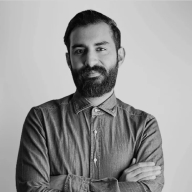
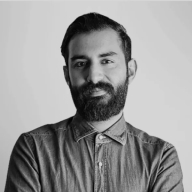
Improved testimonials

diff --git a/src/sass/components/_testimonials.sass b/src/sass/components/_testimonials.sass
@@ -63,18 +63,11 @@
     &__name
         font-family: var(--type-family-1b)
 
-    picture
-        position: relative
-        margin: var(--size-s) var(--size-s) var(--size-s) 0
-        border-radius: 50%
-        overflow: hidden
-        flex-shrink: 0
-        &::after
-            content: ''
-            position: absolute
-            top: 0
-            left: 0
-            width: 100%
-            height: 100%
-            background: var(--color-secondary)
-            opacity: 0.25
+    a
+        display: flex
+
+        picture
+            margin: var(--size-s) var(--size-s) var(--size-s) 0
+            border-radius: 50%
+            overflow: hidden
+            flex-shrink: 0
